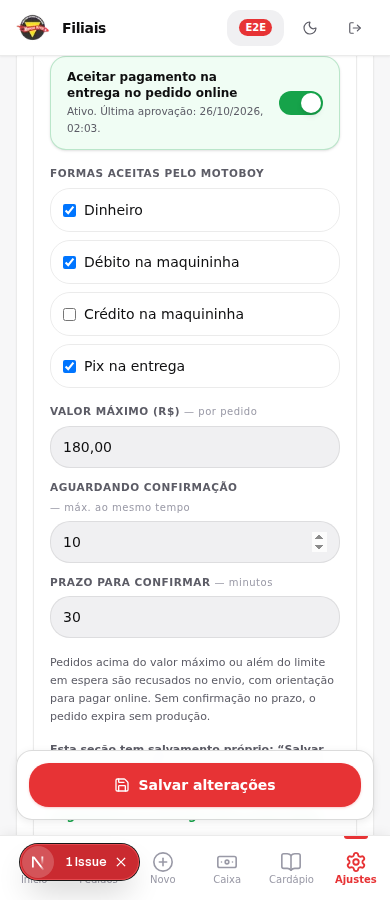
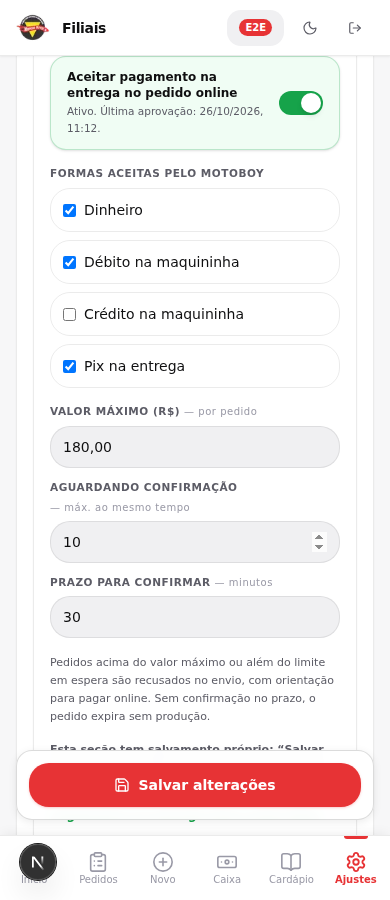
fix(cod): bloquear cancelamento com valor recebido e corrigir acesso a bairros (#221)
- Guard recusa CANCELADO/EXPIRADO em COD com cod_received_amount > 0 (backend,
  API direta e recálculo derivado); pré-checagem em update-order-status
- GRANT em delivery_zones para authenticated (omitido em 20260909040313); RLS por filial
- pgTAP delivery_zones_access e cancelamento com recebimento; E2E com corrida,
  API direta e estorno antes do cancelamento; QA do painel valida bairros sem 403
- Plano de implantação e rollback sem remover migration aplicada

Changed region(s): [[0.0308, 0.9333, 0.3692, 0.9956], [0.2154, 0.1244, 0.2462, 0.1556]]

diff --git a/supabase/functions/update-order-status/index.ts b/supabase/functions/update-order-status/index.ts
@@ -70,7 +70,7 @@ serve(async (req) => {
       .from("orders")
       .select(`
         id, branch_id, daily_number, status, payment_status, type,
-        customer_phone, customer_name,
+        customer_phone, customer_name, payment_timing, cod_received_amount,
         branches ( code, name )
       `)
       .eq("id", order_id)
@@ -78,6 +78,10 @@ serve(async (req) => {
     if (orderErr || !order) throw new Error("Pedido inexistente ou sem permissão.");
 
     const cur = order.status;
+    // Mensagem clara antes da escrita; o guard do banco é a garantia (concorrência/API direta).
+    if (status === "CANCELADO" && order.payment_timing === "ON_DELIVERY" && Number(order.cod_received_amount ?? 0) > 0) {
+      throw new Error("Pedido com pagamento na entrega já recebido não pode ser cancelado. Registre o estorno do valor antes.");
+    }
     if (cur === "ENTREGUE")  throw new Error("Pedido já ENTREGUE.");
     if (cur === "CANCELADO") throw new Error("Pedido já CANCELADO.");
     if (cur === "EXPIRADO")  throw new Error("Pedido EXPIRADO.");

diff --git a/docs/product/delivery.md b/docs/product/delivery.md
@@ -40,6 +40,13 @@ Os limites não são enviados ao navegador do cliente.
 - `mark-payment` exige confirmação explícita de recebimento (`received_confirmed`).
   Recebimento parcial distribui o desconto de cupom proporcionalmente e cobra o frete
   na última parcela; o status vira `PAID` somente quando o total é recebido.
+- Pedido COD com valor recebido e não estornado **não pode ser cancelado** (nem pelo
+  painel, nem pela API direta, nem por cancelamento dos itens). Primeiro é preciso
+  estornar até zerar o recebido; depois o cancelamento é aceito. **Ainda não há botão de
+  estorno no painel**: hoje ele só existe na Edge Function `mark-payment`
+  (`payment_status = REFUNDED`, somente ADMIN). Até existir a tela, trate esses casos
+  com o administrador.
+  Recebimentos e estornos permanecem em `payments` e `audit_logs`.
 - O acompanhamento mostra “Aguardando confirmação da unidade” e “Pagamento na entrega
   pendente” até a baixa; nunca exibe pagamento aprovado antes do recebimento.
 
@@ -52,15 +59,42 @@ e opção de pagamento. Não incluem nome, telefone, endereço, CEP, token, URL 
 de idempotência. Eventos financeiros são gravados pelo banco (`origin = SERVER`)
 e apagados após 30 dias.
 
-### Implantação
+### Implantação e rollback
 
-1. Merge do PR na `main` (exige aprovação humana). O workflow de deploy roda o CI,
-   aplica a migration e só então publica as Edge Functions.
-2. Publicação do frontend. Até lá, o checkout antigo continua só com pagamento online.
-3. Conferir no Supabase que a migration consta no histórico e que `branch_cod_policies` está vazia.
-4. Somente com decisão da unidade: ativar pelo painel em uma filial piloto, fazer um
-   pedido real de baixo valor e acompanhar confirmação, impressão, entrega, baixa e caixa.
-5. Reverter operacionalmente: desligar no painel. Pedidos já aceitos seguem o fluxo normal.
+Pendente em produção (log do deploy de `a69253b`: “Remote database is up to date”):
+somente `20261025212158_public_delivery_payment_contract.sql`. Ela depende de objetos já
+aplicados (`create_public_order_transactional`, `pay_order_items_transactional`,
+`can_manage_branch`, `is_global_admin`, `audit_logs.branch_id`) e roda numa transação:
+se algo divergir, falha inteira e as funções não são publicadas.
+
+Ao fazer o merge na `main`, de forma automática:
+1. Workflow *Deploy Supabase Edge Functions*: CI (incluindo pgTAP) → `db push --dry-run`
+   → `db push` → `functions deploy` de todas as funções.
+2. Vercel (integração Git): publica o frontend em paralelo. A ordem não importa: o
+   frontend novo funciona com as funções antigas (COD fica oculto e o cartão do painel
+   mostra erro de carregamento até a migration), e as funções antigas funcionam com o
+   schema novo.
+
+Plano seguro:
+1. Merge com autorização humana; acompanhar o workflow até a etapa “Apply pending
+   migrations” listar só a migration acima.
+2. Conferir que `branch_cod_policies` está vazia (COD desligado em todas as filiais) e
+   fazer um pedido online de teste.
+3. Piloto: ativar COD pelo painel em uma filial e fazer um pedido real de baixo valor
+   (confirmação, impressão, entrega, baixa, caixa).
+
+Rollback:
+- Operacional (imediato): desligar COD no painel. Antes de qualquer rollback de código,
+  confirmar ou rejeitar os pedidos COD em `AGUARDANDO_CONFIRMACAO`: as funções antigas não
+  confirmam nem expiram COD. Os já confirmados continuam recebendo baixa por `mark-payment`.
+- Frontend: promover o deployment anterior na Vercel.
+- Funções: commit na `main` que restaure **somente** `supabase/functions/**` (e o frontend,
+  se preciso) da revisão anterior, **mantendo o arquivo da migration**. Um `git revert`
+  do merge inteiro apagaria a migration já registrada no banco: o `db push --dry-run`
+  falharia por versão remota ausente localmente e as funções não seriam republicadas.
+  Nunca remover migration aplicada nem rodar `migration repair` automático.
+- Schema: permanece. É compatível com as funções antigas; reverter exige SQL manual
+  revisado e autorização própria.
 
 Detalhes, riscos e limites de validação: [issue #221](../archive/studies/auditoria-pedir-issue-221.md).
 

diff --git a/docs/archive/studies/auditoria-pedir-issue-221.md b/docs/archive/studies/auditoria-pedir-issue-221.md
@@ -371,12 +371,36 @@ O E2E passa pelas Edge Functions reais (edge-runtime local) com usuários sinté
 - O CI executa `test:database`, mas não o E2E nem o QA do painel (exigem edge-runtime e Playwright).
 - A conciliação usa o `cash-report`, que já ignorava estornos antes desta mudança.
 - Nenhum teste com operadores ou clientes reais. O piloto continua como passo operacional.
-- Cancelar um pedido COD inteiro depois de recebimento parcial não tem estorno pelo
-  sistema (a RPC recusa pagamento em pedido CANCELADO). O acompanhamento orienta o
-  cliente a falar com a unidade. Decidir se o cancelamento deve ser bloqueado nesse caso.
+- (Resolvido na rodada 3.) Cancelamento de COD com valor recebido.
 - A segunda rodada da revisão independente aprovou (`approve`). Os dois pontos baixos que
   ela levantou foram atendidos: `NULLIF` no guard e texto de cancelamento após recebimento.
-- Pré-existente e fora do escopo: na instância local, `GET /rest/v1/delivery_zones` da aba
-  Entrega responde 403 para o ADMIN autenticado. Este diff não altera essa tabela,
-  seus grants nem a chamada. Investigar à parte, porque envolve RLS e permissões.
+- (Resolvido na rodada 3.) 403 em `delivery_zones`.
+
+## Rodada 3 — pendências antes do merge (26/10/2026)
+
+- **Cancelamento COD com valor recebido:** o guard em `orders` recusa a passagem para
+  CANCELADO/EXPIRADO quando `cod_received_amount > 0`. Isso vale para o backend, para a API
+  direta e para o recálculo derivado dos itens (o statement inteiro é desfeito) e serializa
+  com o recebimento pelo lock da linha. `update-order-status` antecipa a mensagem.
+  Depois do estorno (ADMIN, `mark-payment REFUNDED`), o cancelamento é aceito, e
+  `payments` e `audit_logs` ficam intactos. Não há tela de estorno; isso está documentado.
+- **403 em `delivery_zones`:**
+  - **Causa:** a migration `20260909040313` concedeu `SELECT` explícito às tabelas da equipe
+    e omitiu `delivery_zones`. Num banco recriado só por migrations, o ACL ficava
+    `authenticated=Dxtm`.
+  - **Correção:** `GRANT SELECT, INSERT, UPDATE, DELETE` ao `authenticated`. As policies
+    existentes limitam a leitura à filial e a escrita ao ADMIN da filial.
+  - **Produção:** provavelmente já tem esse acesso pelos grants do Dashboard; não foi
+    possível confirmar, porque a leitura do banco não foi autorizada nesta sessão.
+- **Migrations pendentes:** só `20261025212158_public_delivery_payment_contract.sql`. O log do
+  deploy de `a69253b` registrou “Remote database is up to date” e a `main` não avançou desde então.
+- **Revisão independente:** o código foi aprovado. O rollback inicial (revert do merge
+  inteiro) quebraria o deploy, porque apagaria a migration aplicada; a correção também foi aprovada.
+
+| Verificação | Resultado |
+| --- | --- |
+| `npm run check` | PASS — 295 testes, tipos, lint, docs, Supabase |
+| `npm run build` | PASS |
+| `test:database` | PASS — 89 testes pgTAP em 8 arquivos (novo: `delivery_zones_access`) |
+| `test:cod-e2e -- --admin-qa` | PASS — 46 verificações (corrida cancelar × receber, API direta, estorno → cancelamento) e painel com a listagem de bairros sem 403 |
 
